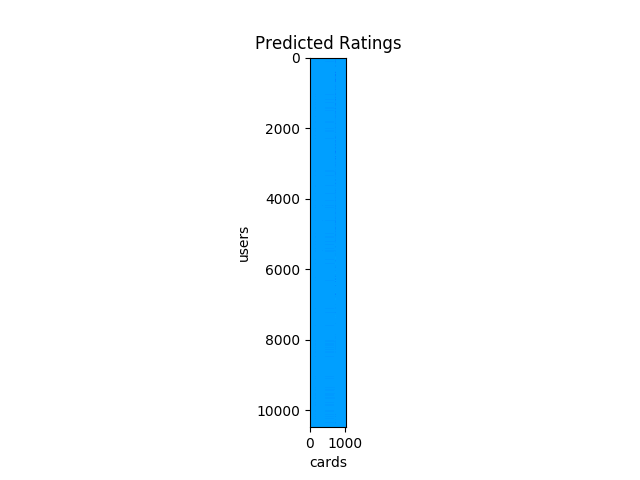
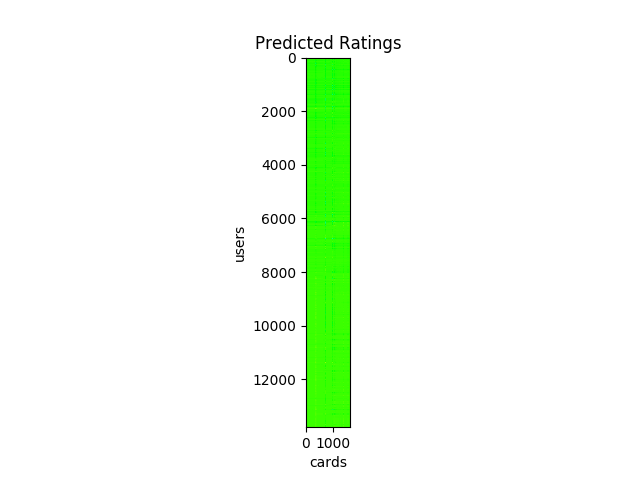
Update previously incorrect recommendations; TODO: make it faster

Changed region(s): [[0.3438, 0.125, 0.5625, 0.9375], [0.4375, 0.0938, 0.4688, 0.125]]

diff --git a/rateme/views.py b/rateme/views.py
@@ -149,6 +149,12 @@ def my_recommendations_view(request):
 
                 if not created:
                     obj.value = predicted_ratings[cards2matrix[recommendation]]
+
+            # Now update previously created recommendations
+            # (since some of them might be totally wrong)
+            for recommendation in Recommendation.objects.all().filter(user=request.user):
+                recommendation.value = predicted_ratings[cards2matrix[recommendation.rating_card.id]]
+
         except KeyError:
             pass
             # this user doesn't have any recommendations yet
